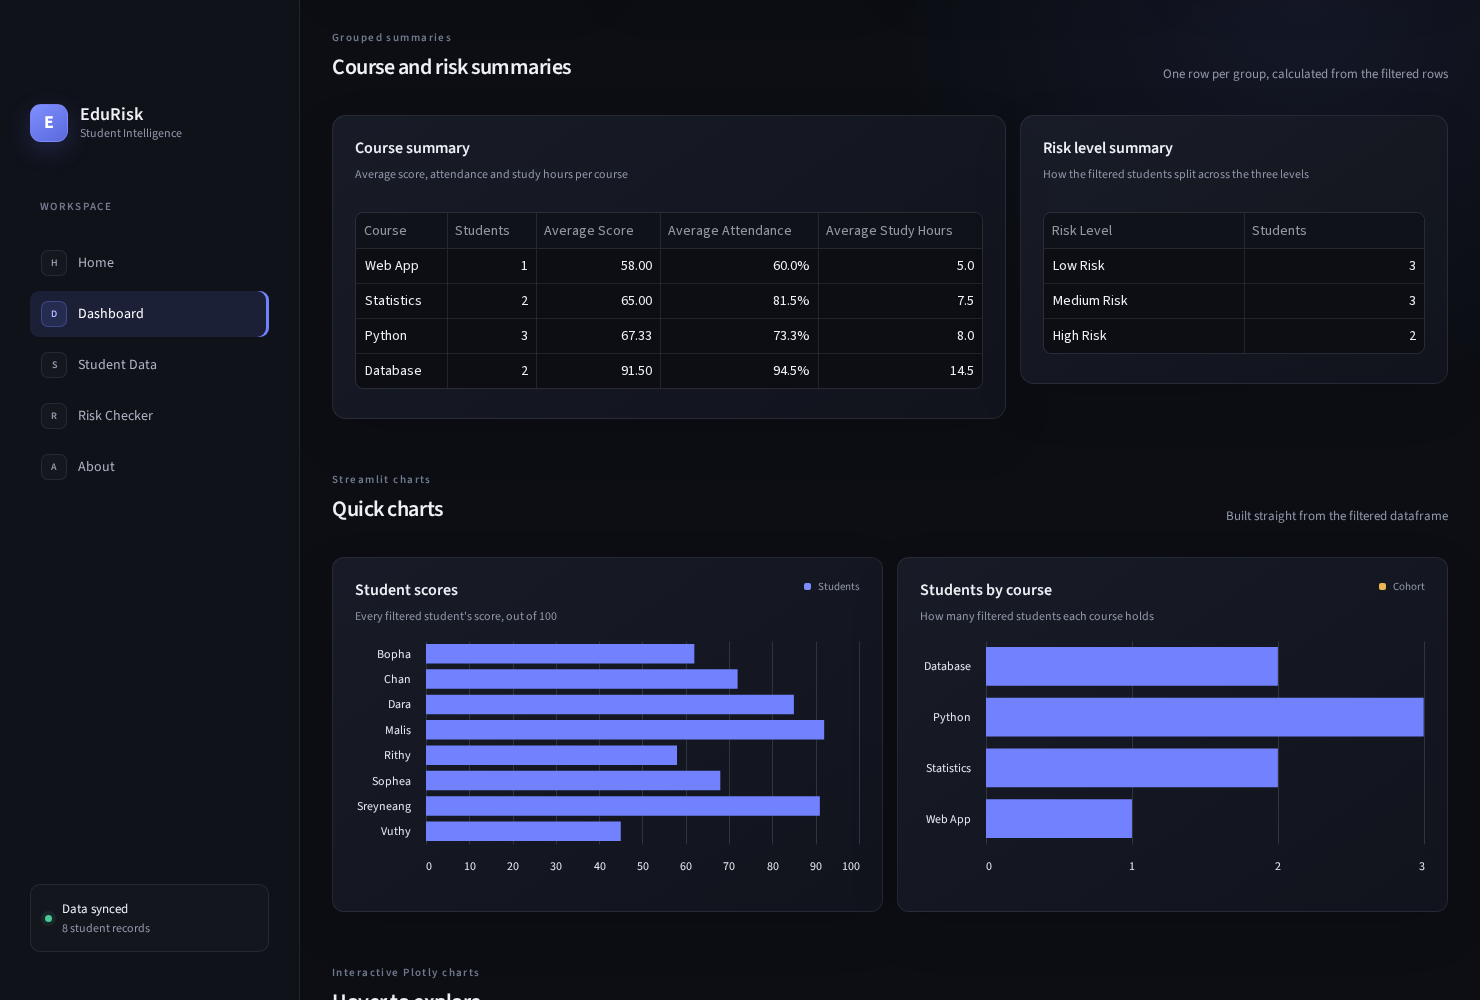
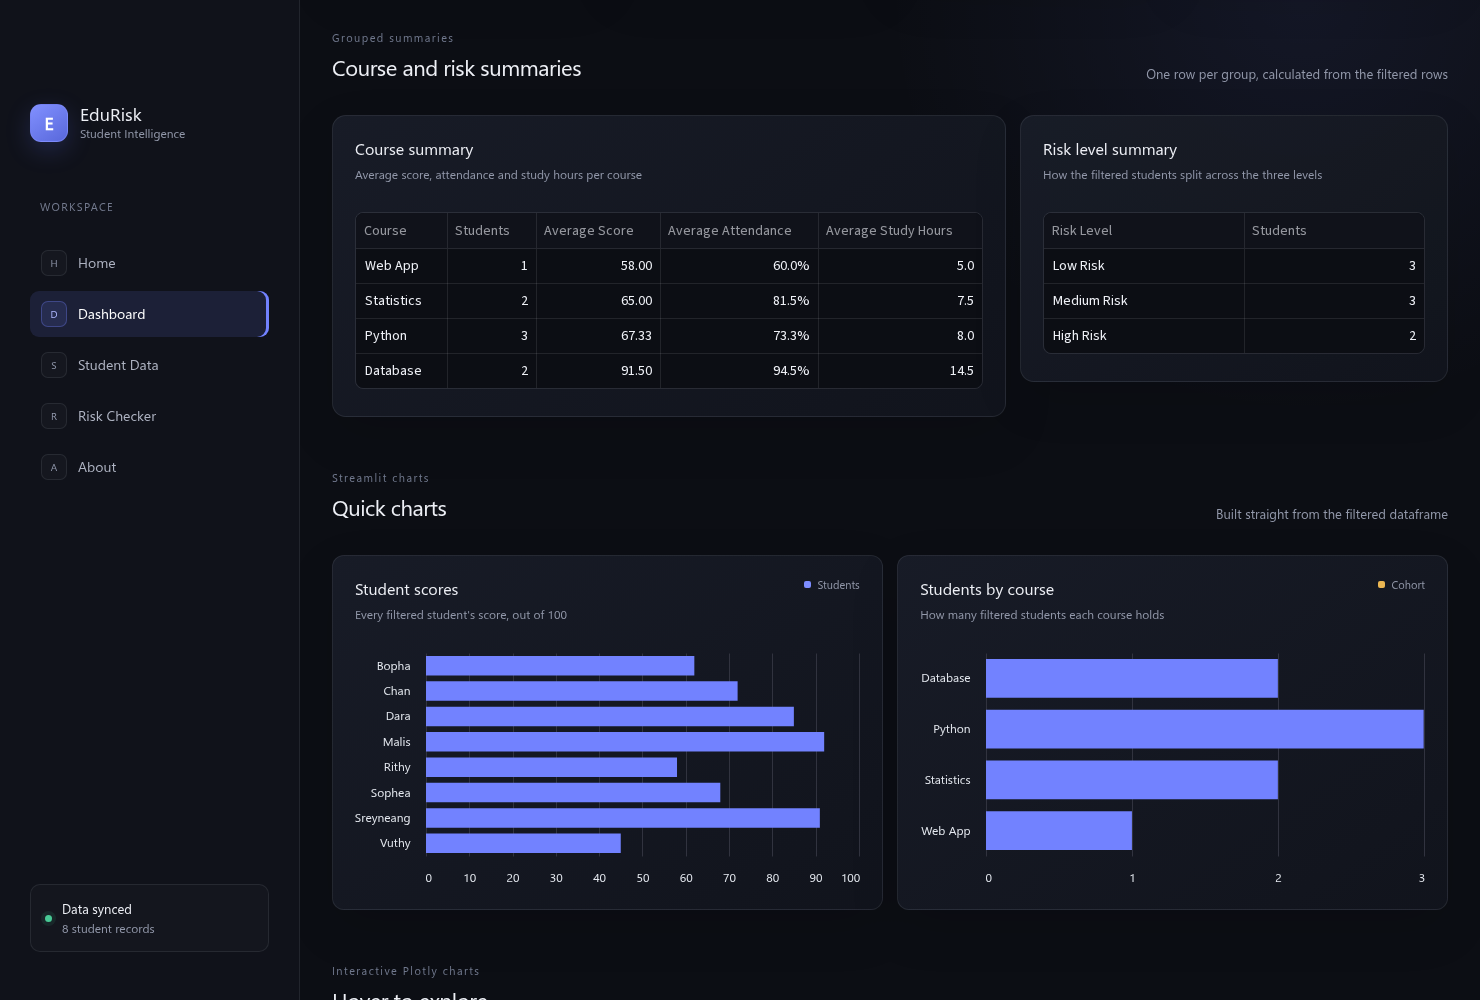
Lab 05 dashboard

diff --git a/app.py b/app.py
@@ -271,16 +271,22 @@ def course_summary(rows):
     if rows.empty or "Course" not in rows.columns:
         return pd.DataFrame(columns=COURSE_SUMMARY_COLUMNS)
 
-    # "Student Name" is counted rather than the rows, so a blank name cannot
-    # quietly disappear from the class size.
-    name_column = "Student Name" if "Student Name" in rows.columns else "Course"
+    # "size" counts rows, not non-null names: a blank name must not shrink the
+    # class size. dropna=False keeps a row with no course in its own group
+    # instead of deleting it from the summary.
+    aggregations = {"Students": ("Course", "size")}
+    for label, column in (
+        ("Average_Score", "Score"),
+        ("Average_Attendance", "Attendance"),
+        ("Average_Study_Hours", "Study Hours"),
+    ):
+        if column in rows.columns:
+            aggregations[label] = (column, "mean")
 
-    summary = rows.groupby("Course", as_index=False).agg(
-        Students=(name_column, "count"),
-        Average_Score=("Score", "mean"),
-        Average_Attendance=("Attendance", "mean"),
-        Average_Study_Hours=("Study Hours", "mean"),
-    )
+    summary = rows.groupby("Course", dropna=False, as_index=False).agg(**aggregations)
+
+    if "Average_Score" not in summary.columns:
+        return summary.reset_index(drop=True)
 
     return summary.sort_values("Average_Score", kind="stable").reset_index(drop=True)
 
@@ -310,7 +316,7 @@ def risk_summary(rows):
 # ------------------------------------------------------------------- figures
 # The Plotly charts are built in their own functions so the *figure* can be
 # tested: a chart that draws the wrong bars is a bug the browser cannot reveal.
-def plotly_layout(fig):
+def plotly_layout(fig, show_legend=False):
     """Paint a Plotly figure in the dashboard's dark palette.
 
     Streamlit would otherwise apply its own light template over the custom
@@ -324,16 +330,15 @@ def plotly_layout(fig):
         margin=dict(l=44, r=14, t=16, b=34),
         paper_bgcolor="rgba(0,0,0,0)",
         plot_bgcolor="rgba(0,0,0,0)",
-        showlegend=False,
+        showlegend=show_legend,
+        legend=dict(orientation="h", yanchor="bottom", y=1.02, x=0),
         font=dict(color=CATEGORY_LABEL_COLOR, size=11),
         xaxis=dict(
-            title=None,
             showgrid=False,
             zeroline=False,
             tickfont=dict(color=AXIS_LABEL_COLOR, size=10),
         ),
         yaxis=dict(
-            title=None,
             gridcolor=PLOTLY_GRID_COLOR,
             zeroline=False,
             tickfont=dict(color=AXIS_LABEL_COLOR, size=10),
@@ -353,7 +358,7 @@ def risk_distribution_figure(rows):
         color_discrete_map=RISK_COLOR_MAP,
         category_orders={"Risk Level": RISK_LEVELS},
         text="Students",
-        labels={"Risk Level": "", "Students": "Students"},
+        labels={"Risk Level": ""},
     )
     # The number on the bar means the value is never encoded by colour alone.
     fig.update_traces(textposition="outside", cliponaxis=False)
@@ -371,7 +376,7 @@ def score_by_risk_figure(rows):
         category_orders={"Risk Level": RISK_LEVELS},
         labels={"Student Name": "", "Score": "Score out of 100"},
     )
-    return plotly_layout(fig)
+    return plotly_layout(fig, show_legend=True)
 
 
 # =============================================================================
@@ -406,8 +411,6 @@ RISK_BADGE_COLORS = {
     "High Risk": {"bg": "rgba(242, 99, 112, 0.16)", "fg": "#f9848e"},
 }
 
-# The order the risk chart draws its three bars in: calmest first, so the eye
-# reads Low -> Medium -> High instead of jumping from the alarming red bar.
 # Chart styling that the design fixed.
 SCORE_BAR_COLOR = "#7d8dff"
 # Scores run out of 100, so the histogram keeps that full width instead of
@@ -1147,6 +1150,8 @@ def render_streamlit_charts(view):
 
     score_col, course_col = st.columns(2, vertical_alignment="top")
     empty = view.empty
+    can_score = has_chart_data(view, "Student Name", "Score")
+    can_count = has_chart_data(view, "Course")
 
     with score_col:
         chart_panel(
@@ -1156,7 +1161,7 @@ def render_streamlit_charts(view):
             "Students",
             score_legend=True,
             render=None
-            if empty
+            if empty or not can_score
             else lambda: st.bar_chart(
                 # Horizontal bars keep eight student names readable; vertical
                 # bars forced the labels to rotate on their side.
@@ -1175,7 +1180,7 @@ def render_streamlit_charts(view):
             "Cohort",
             score_legend=False,
             render=None
-            if empty
+            if empty or not can_count
             else lambda: st.bar_chart(
                 view["Course"].value_counts(),
                 color=PRIMARY,
@@ -1195,6 +1200,8 @@ def render_plotly_charts(view):
 
     risk_col, score_col = st.columns([0.8, 1.2], vertical_alignment="top")
     empty = view.empty
+    can_risk = has_chart_data(view, "Risk Level")
+    can_score = has_chart_data(view, "Student Name", "Score", "Risk Level")
 
     with risk_col:
         chart_panel(
@@ -1203,7 +1210,7 @@ def render_plotly_charts(view):
             "Students per risk level, counted from the filtered rows",
             "Cohort",
             render=None
-            if empty
+            if empty or not can_risk
             else lambda: st.plotly_chart(
                 risk_distribution_figure(view),
                 theme=None,
@@ -1219,7 +1226,7 @@ def render_plotly_charts(view):
             "Each student's score, coloured by the risk level it produced",
             "Cohort",
             render=None
-            if empty
+            if empty or not can_score
             else lambda: st.plotly_chart(
                 score_by_risk_figure(view),
                 theme=None,

diff --git a/tests/test_app_flow.py b/tests/test_app_flow.py
@@ -281,6 +281,13 @@ class DashboardVisualizationTests(unittest.TestCase):
         app = self.open_dashboard()
         self.assertEqual(len(app.dataframe[2].value), 8)
 
+    def test_dashboard_draws_two_plotly_and_three_altair_charts(self):
+        app = self.open_dashboard()
+        self.assertEqual(len(app.get("plotly_chart")), 2)
+        # The two st.bar_chart charts and the score distribution all render as
+        # vega-lite elements, so three is the full set.
+        self.assertEqual(len(app.get("vega_lite_chart")), 3)
+
     def test_course_filter_updates_metrics_and_tables(self):
         app = self.open_dashboard()
         app.selectbox(key="er-filter-course").set_value("Python").run()
@@ -290,12 +297,22 @@ class DashboardVisualizationTests(unittest.TestCase):
         self.assertEqual(values["Average Score"], "67.33")
         self.assertEqual(len(app.dataframe[2].value), 3)
 
+        # The summary table must follow the filter, not the whole cohort.
+        course_table = app.dataframe[0].value
+        self.assertEqual(course_table["Course"].tolist(), ["Python"])
+        self.assertEqual(int(course_table["Students"].iloc[0]), 3)
+        self.assertAlmostEqual(course_table["Average_Score"].iloc[0], 67.3333, places=3)
+
     def test_risk_filter_leaves_only_that_level(self):
         app = self.open_dashboard()
         app.selectbox(key="er-filter-risk").set_value(app_module.HIGH_RISK).run()
 
         records = app.dataframe[2].value
         self.assertEqual(set(records["Risk Level"]), {app_module.HIGH_RISK})
+
+        # Every class member is accounted for: two High Risk rows.
+        risk_table = app.dataframe[1].value
+        self.assertEqual(risk_table["Students"].tolist(), [0, 0, 2])
 
     def test_attendance_slider_filters_the_records(self):
         app = self.open_dashboard()

diff --git a/design/theme.py b/design/theme.py
@@ -386,7 +386,6 @@ section[data-testid="stSidebar"] > div {
 .st-key-er-metric-attendance,
 .st-key-er-metric-risk,
 .st-key-er-chart-scores,
-.st-key-er-chart-risk,
 .st-key-er-summary-course,
 .st-key-er-summary-risk,
 .st-key-er-chart-streamlit-scores,
@@ -812,7 +811,6 @@ section[data-testid="stSidebar"] > div {
 }
 
 .st-key-er-chart-scores,
-.st-key-er-chart-risk,
 .st-key-er-chart-streamlit-scores,
 .st-key-er-chart-streamlit-courses,
 .st-key-er-chart-plotly-risk,
@@ -820,15 +818,14 @@ section[data-testid="stSidebar"] > div {
   border-radius: 12px;
 }
 
-.st-key-er-chart-scores [data-testid="stVegaLiteChart"],
-.st-key-er-chart-risk [data-testid="stVegaLiteChart"] {
+.st-key-er-chart-scores [data-testid="stVegaLiteChart"] {
   margin-top: 14px;
 }
 
 /* The Streamlit and Plotly charts are drawn by other components, so they get
    their own spacing rule instead of inheriting the Altair one. */
-.st-key-er-chart-streamlit-scores [data-testid="stArrowVegaLiteChart"],
-.st-key-er-chart-streamlit-courses [data-testid="stArrowVegaLiteChart"],
+.st-key-er-chart-streamlit-scores [data-testid="stVegaLiteChart"],
+.st-key-er-chart-streamlit-courses [data-testid="stVegaLiteChart"],
 .st-key-er-chart-plotly-risk [data-testid="stPlotlyChart"],
 .st-key-er-chart-plotly-scores [data-testid="stPlotlyChart"] {
   margin-top: 14px;

diff --git a/tests/test_logic.py b/tests/test_logic.py
@@ -349,10 +349,11 @@ class PlotlyFigureTests(unittest.TestCase):
             [app.LOW_RISK, app.MEDIUM_RISK, app.HIGH_RISK],
         )
 
-    def test_figures_survive_an_empty_view(self):
+    def test_empty_view_draws_no_bars(self):
+        """An empty figure is not just non-None: it must carry no bar data."""
         empty = app.df.iloc[0:0]
-        self.assertIsNotNone(app.risk_distribution_figure(empty))
-        self.assertIsNotNone(app.score_by_risk_figure(empty))
+        risk_figure = app.risk_distribution_figure(empty)
+        self.assertEqual(sum(len(trace.y) for trace in risk_figure.data), 0)
 
 
 class DatasetTests(unittest.TestCase):
